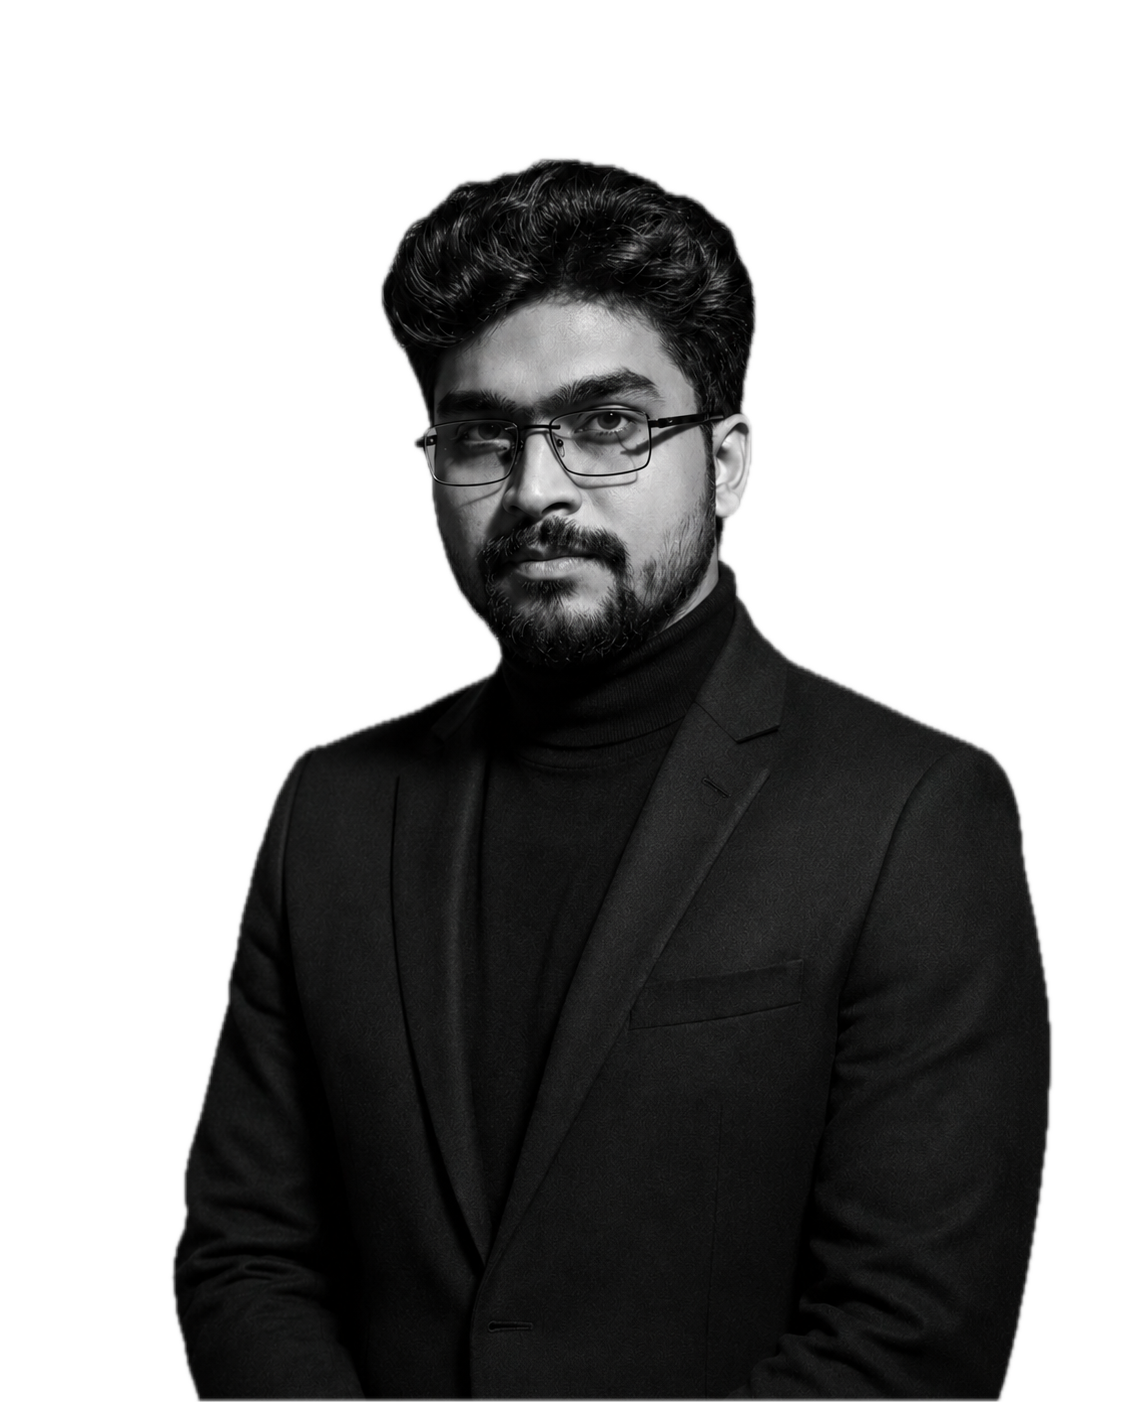
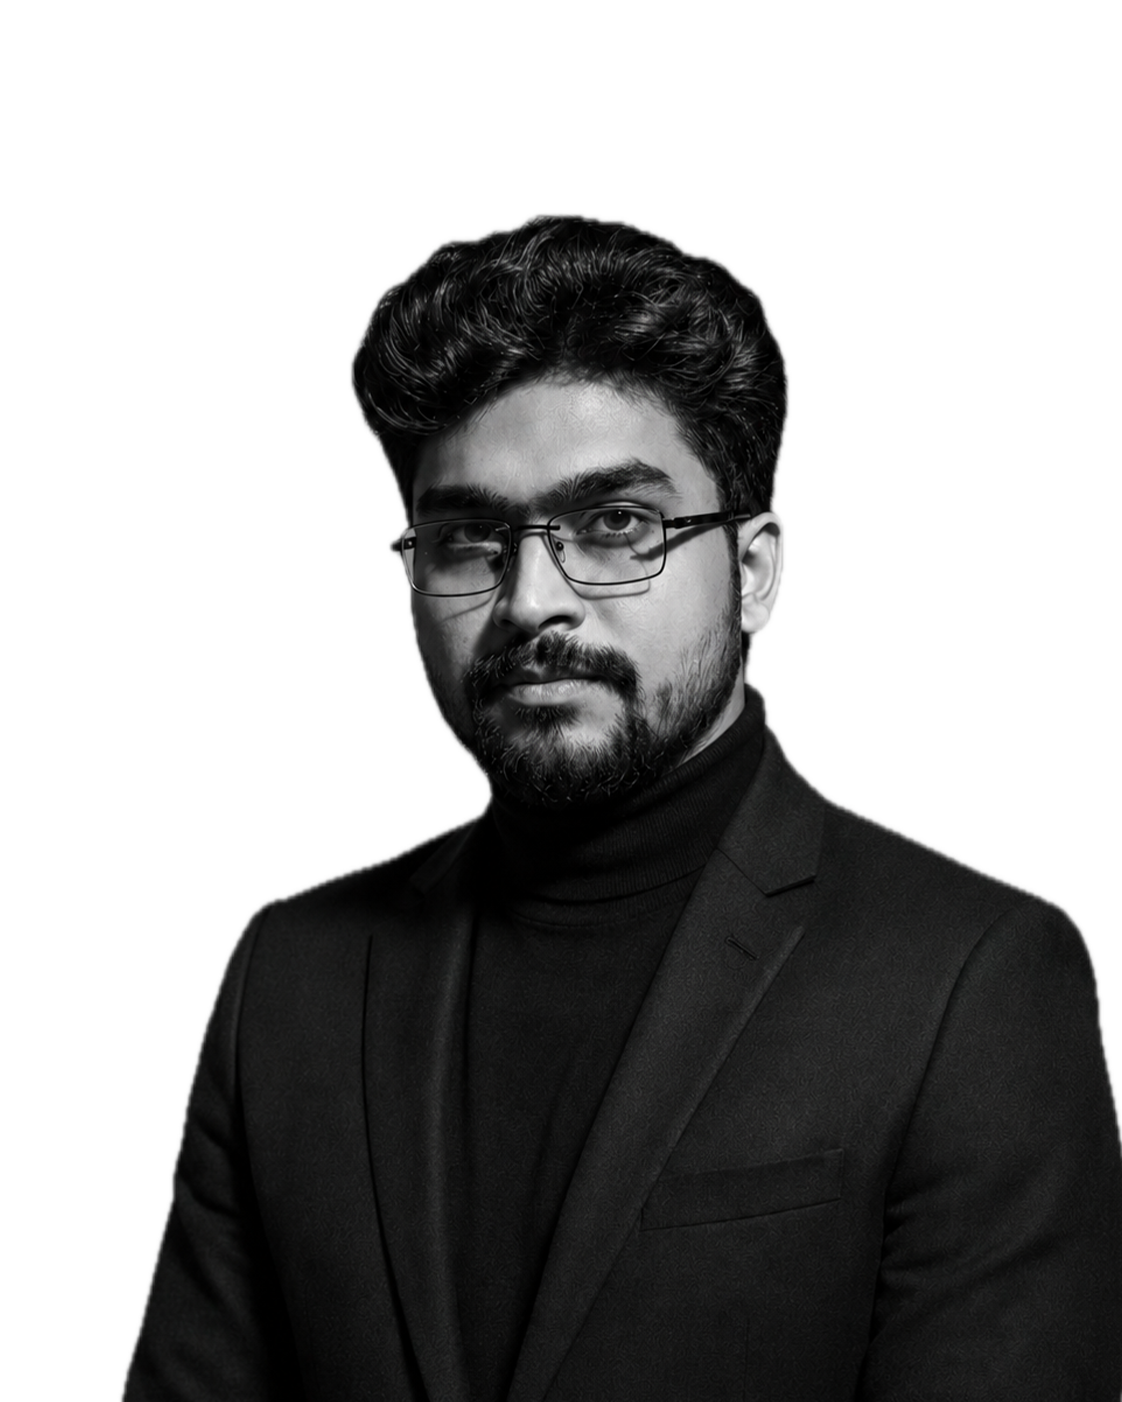
Update rising leaders speakers data and images
- Add new speakers: Monali Samarth, Thejashwini, Anika Shrivastava, Pratik Joglekar
- Fix Amber Krishan image path and bio encoding
- Update Vineet Gupta talkType to Spark Session
- Update Sujit Kumar Pradhan type to Deep Dive - 30 Mins
- Add new speaker images

diff --git a/data/events/rising-leaders-speakers.ts b/data/events/rising-leaders-speakers.ts
@@ -48,14 +48,14 @@ const risingLeadersSpeakers: Speaker[] = [
     role: "Assistant Vice President, Design & Branding",
     image: "/images/speakers/rising-leaders/Vineet Gupta.png",
     ogImage: "",
-    talkType: "Deep Dive",
+    talkType: "Spark Session",
     bio: "Vineet Gupta is a Product Designer and Head of Design & Branding at Gemini Solutions, where he built design teams and products from the ground up. He has led AI-driven projects across fintech, insurance, sports, and healthcare for clients in the US, India, and UAE. A TEDx speaker, marathon runner, and YouTuber, Vineet is passionate about human-centered design and loves sharing knowledge to empower the next generation through technology and storytelling.",
     linkedin: "https://www.linkedin.com/in/vineetgupta94/",
     twitter: "",
     feedbackLink: "",
     events: {
       rising: {
-        type: "Deep Dive",
+        type: "Spark Session",
         track: "",
         talkCategory: "Emerging Tech",
         title: "Rethinking HCI (Human Computer Interaction) in the Age of AI",
@@ -83,7 +83,7 @@ const risingLeadersSpeakers: Speaker[] = [
     feedbackLink: "",
     events: {
       rising: {
-        type: "Deep Dive",
+        type: "Deep Dive - 30 Mins",
         track: "",
         talkCategory: "Design Practice",
         title: "Design Un-automated: Reclaiming the Soul of Design",
@@ -160,10 +160,10 @@ const risingLeadersSpeakers: Speaker[] = [
   {
     name: "Amber Krishan",
     role: "CEO, Futurris Digital Pvt Ltd",
-    image: "/images/speakers/leadership-summit/Amber-Krishan.webp",
+    image: "/images/speakers/rising-leaders/Amber-Krishan.png",
     ogImage: "",
     talkType: "Workshop",
-    bio: "Amber Krishan is the Founder & CEO of Futurris, a company built for the future-edge of digital transformation â€\" where product, experience, AI, and customer value converge. Over the last two decades, he has built award-winning creative and delivery organizations focused on product transformation, intelligent CX, omni-channel ecosystems, and metrics-led execution across fintech, SaaS, and enterprise ecosystems. Previously, Amber co-founded and led THEM Consulting, a BFSI-focused design firm with offices in Gurgaon and Mumbai. At PayU, he set up and scaled a global digital product experience center, establishing methods, metrics, and infrastructure to support agile delivery across teams. Earlier, he led technical and training teams at Human Factors International (HFI). Amber has delivered 250+ programs on innovation, product strategy, and digital transformation across America, South Africa, Asia, and the Middle East. He continues to teach at Parsons School of Design, CEPT, Chitkara University, Avantika University, Masters Union, and AND Academy, and has spoken at forums including NASSCOM, IAMAI, UXINDIA, and IIM Ahmedabad.",
+    bio: "Amber Krishan is the Founder & CEO of Futurris, a company built for the future-edge of digital transformation where product, experience, AI, and customer value converge. Over the last two decades, he has built award-winning creative and delivery organizations focused on product transformation, intelligent CX, omni-channel ecosystems, and metrics-led execution across fintech, SaaS, and enterprise ecosystems. Previously, Amber co-founded and led THEM Consulting, a BFSI-focused design firm with offices in Gurgaon and Mumbai. At PayU, he set up and scaled a global digital product experience center, establishing methods, metrics, and infrastructure to support agile delivery across teams. Earlier, he led technical and training teams at Human Factors International (HFI). Amber has delivered 250+ programs on innovation, product strategy, and digital transformation across America, South Africa, Asia, and the Middle East. He continues to teach at Parsons School of Design, CEPT, Chitkara University, Avantika University, Masters Union, and AND Academy, and has spoken at forums including NASSCOM, IAMAI, UXINDIA, and IIM Ahmedabad.",
     linkedin: "https://www.linkedin.com/in/amberkrishan/",
     twitter: "",
     feedbackLink: "",
@@ -179,7 +179,228 @@ const risingLeadersSpeakers: Speaker[] = [
       "How lifecycle depth creates long-term defensibility",
       "How behavior systems influence retention and engagement",
       "How to align product, business, experience, and growth more cohesively",
-      "Practical frameworks to rethink modern product strategy\"",
+      "Practical frameworks to rethink modern product strategy",
+        ],
+        audience: "",
+      },
+    },
+  },
+  {
+    name: "Monali Samarth",
+    role: "Product Design Engineer",
+    image: "/images/speakers/rising-leaders/Monali-Samarth.png",
+    ogImage: "",
+    talkType: "Workshop",
+    bio: "Monali Samarth is a UX Lead and Design Systems Architect with 22+ years bridging product strategy, design, and front-end engineering across enterprise SaaS, edtech, fintech, and healthcare. At RIB Software, she architected a tokenized component library that reduced UI inconsistencies by 80% and directly enabled AI-assisted design-to-code pipelines across five products. She has personally shipped the systems this talk is about and lived through the failures that inspired it. Monali mentors designers and developers on design systems, accessibility, and scalable UX ops, and brings rare dual fluency in Figma and Angular to every handoff conversation.",
+    linkedin: "https://www.linkedin.com/in/monalisamarth/",
+    twitter: "",
+    feedbackLink: "",
+    events: {
+      rising: {
+        type: "Workshop",
+        track: "",
+        talkCategory: "Design Practice",
+        title: "The last mile of UX - protecting design intent in production",
+        description: "This workshop started from a recurring frustration: designers invest heavily in craft, then lose control of the output the moment it leaves their hands. The arc moves deliberately from awareness (where intent breaks) to skill-building (how to prompt AI precisely) to diagnosis (red-teaming real outputs) to systems-thinking (building personal guardrails). The three labs are the load-bearing structure without them, this is just another talk about handoff problems. Key trade-off: 2.5 hours is tight for the ambition. Phase 2 (COAT framework) can run long if the group is new to structured prompting; facilitators should time-box Lab 1 firmly at 15 minutes or Phase 4 gets compressed. The red-team lab (Lab 3) consistently produces the most insight but needs pre-prepared broken designs don't improvise these on the day.",
+        keyTakeaway: [
+      "Diagnose exactly where design intent erodes in your pipeline from handoff notes to implementation using a shared vocabulary for the six most common production failure modes.",
+      "Prompt AI design tools with precision using the COAT framework (Context, Outcome, Audience, Tone), producing outputs that are specific enough to survive the handoff without human translation.",
+      "Red-team any AI-generated design output against a 15-point production readiness checklist covering contrast, component states, design tokens, copy edge cases, and responsive gaps.",
+      "Design and document your own AI-augmented workflow, with clear boundaries between what AI owns, what gets reviewed together, and what stays in human hands.",
+      "Build the team agreements and review gates that protect design intent in production not as a policing mechanism, but as shared professional practice.",
+        ],
+        audience: "",
+      },
+    },
+  },
+  {
+    name: "Thejashwini",
+    role: "Ex - Experience Design Strategist",
+    image: "/images/speakers/rising-leaders/Thejashwini.png",
+    ogImage: "",
+    talkType: "Workshop",
+    bio: "Tej is a systems thinker, UX strategist, and design researcher exploring the intersection of AI, strategy orchestration, and enterprise transformation. With a background spanning UX research, strategy visualization, and collaborative problem framing, Tej works on translating complexity into human-centered systems and experiences. Their work focuses on how organizations can move from static decision-making structures toward adaptive, intelligence-driven ecosystems where strategy, execution, and human collaboration continuously evolve together. Deeply interested in conversational intelligence, organizational memory, and AI-augmented decision systems, Tej brings a multidisciplinary perspective that bridges design, systems thinking, and emerging technology. Known for facilitating nuanced conversations around ambiguity, transformation, and human behavior, Tej is passionate about building futures where technology enhances clarity, alignment, and collective intelligence rather than replacing human judgment.",
+    linkedin: "https://www.linkedin.com/in/tejthethunder/",
+    twitter: "",
+    feedbackLink: "",
+    events: {
+      rising: {
+        type: "Workshop",
+        track: "",
+        talkCategory: "Emerging Tech",
+        title: "Conflict as a Coherence Engine: Building AI Products for Human Coordination",
+        description: "This workshop teaches the Conflict as a Coherence Engine framework through direct application. Participants work with their own real team contexts not hypothetical scenarios. The session moves through four stages: first, distinguishing conflicts from constraints and mapping where each type lives in a product team. Second, designing a decision trace the five-field structure that captures not just what was decided but why, what was traded, and which outcome it serves. Third, applying the three-tier conflict model to identify whether a team's coordination failures are conversation-level, resource-level, or structural. Fourth, using the qualification question to assess whether a team or organisation has the psychological safety for conflict to become signal rather than politics. The facilitator brings primary research from discovery interviews with PMs at fast-growth startups, a complete product design case study, and the honest finding that this framework only works in certain conditions.",
+        keyTakeaway: [
+      "When intelligence is abundant, coherence is the differentiator. Participants reframe their understanding of what AI products should be designed to do - not replace human judgment but make human coordination more intelligent.",
+      "A personal conflict taxonomy. Each participant maps the recurring conflicts in their own team or product across three tiers - Team, interdeprtmental, organisational",
+      "A decision trace template. Participants practise writing five-field decision traces - what, why, tradeoff, outcome, confidence - for real decisions from their own work, and leave with a template they can use in their next sprint.",
+      "The qualification question. A single question that reveals in 30 seconds whether a team has the psychological safety for conflict to produce coherence rather than politics - and what to do when the answer is no.",
+      "Trust as a design constraint. Participants design one interaction in their own product or team process that treats human dignity as a requirement - anonymity at point of capture, participation before commit, space to dissent without confrontation.",
+        ],
+        audience: "",
+      },
+    },
+  },
+  {
+    name: "Roopesh Ramesh Donde",
+    role: "Sr Staff Product Designer",
+    image: "/images/speakers/rising-leaders/Roopesh-Ramesh-Donde.webp",
+    ogImage: "",
+    talkType: "Workshop",
+    bio: "12 years designing for humans. 2 years teaching AI to stay in its lane. Sr. Staff Product Designer at ServiceNow with experience across Adobe, QuillBot, and now designing AI agents. At QuillBot I designed for 50 million monthly users - which teaches you fast that good design has one job: dissapear. The best work I've ever shipped landed so naturally users didn't notice it arrived.. That's the goal. FEEL started as a personal approach a way to make design instinct discussable in rooms that run on data. Flow, Emotion, Expression, Logic. I built it over two years of design reviews, hiring decisions, and mentoring sessions across QuillBot and ServiceNow. It works because it doesn't require anyone to know what kerning is. A PM can use it. A self-taught designer can use it. It just needs someone in the room who trusts what they see. I hold an MBA from IIT Bombay and an NN/g UX Leadership Certificate, mentor designers through ADP, and have spoken at UX India 2023. I've been gaming since 1996 NES to PS5 and that's honestly where I first understood what invisible design feels like, long before I had a name for it.",
+    linkedin: "https://www.linkedin.com/in/roopeshdonde/",
+    twitter: "",
+    feedbackLink: "",
+    events: {
+      rising: {
+        type: "Workshop",
+        track: "",
+        talkCategory: "Design Practice",
+        title: "Pitch Imperfect",
+        description: "For the last year I've been running a quiet experiment with my design team at ServiceNow - using a five-step loop 'PITCH' to validate ideas fast & promote innovation.  Problem: identify real friction, not a trend or a brief.  Inform: brief AI together, align on what solved looks like.  Trace: AI deep-researches clarity, competition, feasibility.  Capture: co-author the PRD clear, testable, one page.  Hatch: build it. AI executes, you direct. The method came from a personal frustration. Every time I fly. Every time I shuffle credit cards at an airport lounge desk - three cards, a Priority Pass, no idea which has visits left. Ten seconds of embarrassment, every trip. One afternoon I sat down with Claude and ran it through what would become PITCH. By evening I had something I actually used. That afternoon became the proof of concept for everything that followed. Also, I found out why it cant be done and made into a product.",
+        keyTakeaway: [
+      "The problem you keep ignoring is the one worth solving : Designers are trained to solve other people's problems. The closest you ever get to genuine problem-solving is when you are the user. PITCH starts there.",
+      "A problem is a problem : Work or personal, the design skill is identical. PITCH makes that transfer explicit, structured, and repeatable - in one sitting, with AI as your collaborator.",
+      "You leave with something real : Not a concept. Not a sticky note. A working prototype or validated brief for a problem you walked in with - hatched in one session.",
+        ],
+        audience: "",
+      },
+    },
+  },
+  {
+    name: "Dushyant Kanungo",
+    role: "Director",
+    image: "/images/speakers/rising-leaders/Dushyant-Kanung0.webp",
+    ogImage: "",
+    talkType: "Workshop",
+    bio: "Dushyant Kanungo is a UX leader, author, and public speaker based in Indore, India, with over 20 years of experience in digital product design, UX strategy, and user-centered innovation across web and enterprise platforms. As Director of UX at Galaxy UX Studio / Galaxy Weblinks, he leads UX strategy, research, and design delivery for global, cross-domain products and services. He is the author of 'UX Decoded' and host of the UX Banter podcast. Dushyant is an active mentor on ADPList, recognized as a Top 1% Mentor in Design (February 2025), and has delivered 100+ mentorship sessions to designers worldwide. His speaking engagements span UX India, AI for Developing Nations Forum, IIM Indore, and international conferences, focusing on topics including high-stakes UX, AI ethics, inclusive design, and enterprise UX strategy.",
+    linkedin: "https://linkedin.com/in/dushyantmk",
+    twitter: "",
+    feedbackLink: "",
+    events: {
+      rising: {
+        type: "Workshop",
+        track: "",
+        talkCategory: "Design Practice",
+        title: "Design-ops for AI-Ready UX Teams: From Chaos to Operating System",
+        description: "This workshop starts by confronting the gap between AI hype and day-to-day reality in UX teams: scattered experiments, duplicated effort, unclear ownership, and anxiety about relevance. Participants will work in small groups to map their current discovery-design-delivery pipeline, then layer on where AI is already used (or could be used) for research, ideation, content, prototyping, documentation, and stakeholder communication. We then introduce a set of practical design-ops components working agreements, checklists, templates, review frameworks, learning paths and use these to redesign each group workflow into an AI-augmented UX operating system. Along the way, we address budgeting and staffing implications: which skills to hire for, how to re-scope roles, and how to communicate the new practice to leadership and teams who just don't get it. The session includes short demos, guided canvases, and peer critique.",
+        keyTakeaway: [
+      "A clear map of your current UX workflow and its biggest friction points.",
+      "A customized â€œAI-augmented UX operating systemâ€ canvas you can take back to your team.",
+      "Practical templates for AI use in research, design, documentation, and review.",
+      "Talking points to discuss staffing, budgeting, and upskilling with leadership.",
+      "A realistic personal learning plan to stay relevant as AI reshapes UX careers.",
+        ],
+        audience: "",
+      },
+    },
+  },
+  {
+    name: "Pratik Joglekar",
+    role: "Senior Product Designer, Coursera",
+    image: "/images/speakers/rising-leaders/Pratik-Joglekar.png",
+    ogImage: "",
+    talkType: "Deep Dive",
+    bio: "Pratik is a senior product designer with over 8 years of experience across enterprise SaaS, financial services, and consumer products. He has shaped design at Coursera, HubSpot, and MassMutual, working at the intersection of growth, activation, and platform thinking.  His work tends to live in the messy, consequential parts of a product: the flows that determine whether a user activates or churns, the systems that make complex products feel coherent, the decisions that sit somewhere between design and product strategy. Inclusion is central to how he designs, with a particular focus on building experiences that work for neurodiverse users from the start, not as an afterthought. Beyond his day job, Pratik mentors designers through various platforms and is active in the broader design community as a writer, speaker, and design judge. He believes the most important design decisions happen before any pixels are placed, which is the thinking he brings to his work, his mentoring, and his public writing.",
+    linkedin: "https://www.linkedin.com/in/pratik-joglekar/",
+    twitter: "",
+    feedbackLink: "",
+    events: {
+      rising: {
+        type: "Deep Dive - 30 Mins",
+        track: "",
+        talkCategory: "Emerging Tech",
+        title: "Designing for 1.6 Billion People We Keep Forgetting",
+        description: "Most AI talks make the same argument. AI is changing everything, move fast, stay relevant. This talk makes a different one.  1 in 5 people worldwide is neurodivergent. The AI products being designed right now will define how people work and learn for the next decade, and most are being built without that 5th person in mind.  Microsoft's Persona Spectrum research showed that designing for users with the highest friction improves the experience for everyone. Closed captions and voice control started as accessibility features and became universal defaults. The same pattern is available in AI today.  This talk walks through four barriers neurodivergent users face and shows where AI closes each gap with tools most teams already have. The improvements do not stop at neurodivergent users. They compound across the entire product.  The barrier is not technical. It is a decision. This talk gives design leaders the argument to make that call.",
+        keyTakeaway: [
+      "Inclusive design is not a values statement. It is a product strategy. The teams building AI with neurodivergent users in mind are producing experiences that work better for everyone, and they are doing it with tools already in their stack.",
+      "There are four specific, well-documented barriers neurodivergent users face in digital products today. Each one is solvable. This talk shows exactly how.",
+      "The cost of retrofitting inclusion into an established AI system is exponentially higher than building it in from the start. The decisions being made right now are the ones that will be hardest to undo later.",
+      "Design leaders are the only people in most organizations who sit at the intersection of user insight, product direction, and organizational influence. That position comes with a responsibility most teams have not acted on yet.",
+      "The design patterns being normalized in AI products today will become the standards every product follows. What gets built in this window will shape who technology serves for the next decade. This talk is about making sure that answer is everyone.",
+        ],
+        audience: "",
+      },
+    },
+  },
+  // {
+  //   name: "Sushrut Jangid",
+  //   role: "Product Designer",
+  //   image: "/images/speakers/rising-leaders/Sushrut-Jangid.webp",
+  //   ogImage: "",
+  //   talkType: "Spark Session",
+  //   bio: "",
+  //   linkedin: "",
+  //   twitter: "",
+  //   feedbackLink: "",
+  //   events: {
+  //     rising: {
+  //       type: "Spark Session",
+  //       track: "",
+  //       talkCategory: "Emerging Tech",
+  //       title: "I Am My Own Most Neglected User",
+  //       description: "This talk follows one story. A product designer who maps friction for users every day had never once mapped it for himself. When he did, he applied the same process he uses at work: write a brief, define the smallest fix, ship it to yourself. He built a floating window that connected his AI context directly to his design tools. 16 days, 1700 plus prompts, 3945 lines of code. The honest part comes next. He overbuilt it, ignored his own brief, and had to catch himself. Every integration that followed, Figma push, sprint story visibility, automated defect logging, started from the same question: what is the thing that makes me sigh every time? The talk ends with a live demo. The argument is simple: three years ago a designer could not have built this. Today it takes one afternoon and one question.",
+  //       keyTakeaway: [
+  //     "You are your most neglected user. Your workflow has friction worth mapping.",
+  //     "The design process you already use every day works on yourself. Brief, smallest fix, ship.",
+  //     "AI has given designers real build power for the first time. No engineer, no sprint, no ticket required.",
+  //     "Designing for yourself is the most honest user research you will ever do. You cannot fake your own daily adoption.",
+  //     "The metric that matters is not how fast you built it. It is whether you still use it every single day.",
+  //       ],
+  //       audience: "",
+  //     },
+  //   },
+  // },
+  {
+    name: "Anika Shrivastava",
+    role: "Senior UX Designer, LTIMindtree",
+    image: "/images/speakers/rising-leaders/Anika-Shrivastava.png",
+    ogImage: "",
+    talkType: "Spark Session",
+    bio: "A Senior UX Designer with 9+ years of experience designing complex digital products across enterprise, fintech, and data-driven platforms. I specialise in systems thinking, decision-centric UX, and scaling design practices that align user needs with business strategy. My work focuses on simplifying complexity, improving product adoption, and enabling cross-functional collaboration through research-backed design approaches. Alongside product design, I actively explore organisational change, AI-enabled workflows, and the evolving role of design leadership in modern teams.I am passionate about creating thoughtful, human centered experiences and contribute to conversations that push UX beyond interfaces into strategy, culture, and meaningful impact.",
+    linkedin: "https://www.linkedin.com/in/anika-shrivastava-2b8304158?utm_source=share_via&utm_content=profile&utm_medium=member_ios",
+    twitter: "",
+    feedbackLink: "",
+    events: {
+      rising: {
+        type: "Spark Session",
+        track: "",
+        talkCategory: "Emerging Tech",
+        title: "The AI Was Wrong; Now What? Designing Recovery Into High Stakes AI",
+        description: "Three weeks after we launched an AI-powered banking assistant, a support ticket landed in our internal Slack. A user had written: 'This app flagged my rent payment as suspicious. Now I do not trust anything it tells me anymore.' Our accuracy metrics were green. Leadership was happy. And somewhere out there, a real person had quietly stopped trusting us, not because the model broke, but because we had given her nowhere to go when it got something wrong.That ticket broke something open for me. We had spent months designing the AI. We had never once designed the moment after it failed. This talk is the story of rebuilding that product around four recovery moments. What I would do differently: start these conversations in discovery, not after launch. The recovery layer is not a patch. It is a design decision that should shape the whole product. I learned that the hard way and this talk is honest about that.",
+        keyTakeaway: [
+      "A four part Recovery Layer Framework; Explanation, Correction, Escalation, Confidence with concrete design decisions behind each one, not just labels on a slide.",
+      "A reframe that genuinely changes how you build: users do not need AI that is always right. They need AI that is honest when it is not and gives them a clear path forward.",
+      "A practical way to design AI explanations not tooltips or legal disclaimers, but reasoning that actually reduces user anxiety at the moment they are most frustrated.",
+      "Language for the internal arguments you will have specifically how to make the case for showing uncertainty when engineering wants confidence and compliance wants simplicity.",
+      "Four questions to pressure test any AI feature before it ships: Can users understand why? Can they correct it? Can they reach a human? Can they tell how confident the system actually is?",
+        ],
+        audience: "",
+      },
+    },
+  },
+  {
+    name: "Saurabh S. Nimsarkar",
+    role: "Staff UI/UX Designer / Design Research Lead, Wisk Aero LLC",
+    image: "/images/speakers/rising-leaders/Saurabh-S-Nimsarkar.webp",
+    ogImage: "",
+    talkType: "Spark Session",
+    bio: "",
+    linkedin: "",
+    twitter: "",
+    feedbackLink: "",
+    events: {
+      rising: {
+        type: "Spark Session",
+        track: "",
+        talkCategory: "Social Impact",
+        title: "Designing the Future of Accessible Autonomous Air Taxis with People with Disabilities",
+        description: "This project explores AI and automation in transportation and mobility futures. It examines the tension between everyday walking, which is embodied, social, and unpredictable, and automated mobility systems, which often prioritize prediction, efficiency, classification, and control. The project leveraged speculative and participatory design methods by asking participants to become future speculators. Through sandbox worldbuilding and roleplay, they activated possible futures rather than simply responding to them. This helped surface bad outcomes, including how oppression, exclusion, and normalization could be exercised through data driven mobility systems. A key outcome was the Context Futures Framework, which helps teams move between real world research, plausible worldbuilding, critique, and artifact development. The main learning is that design can surface social consequences before systems are fully built, helping teams imagine more humane and equitable mobility futures.",
+        keyTakeaway: [
+      "Use speculative design to surface hidden impacts of AI and automation, especially bias, normalization, and behavioral sorting before systems are deployed.",
+      "Apply participatory design to shift people from users to speculators, enabling them to imagine, experience, and critique future scenarios, while designers act as translators of these insights.",
+      "Use the Context Futures Framework to move between real world research, plausible worldbuilding, critique, and artifact development in a structured way.",
+      "Reframe mobility design decisions by asking who is being predicted, normalized, or excluded, and how context is being shaped through AI systems.",
         ],
         audience: "",
       },